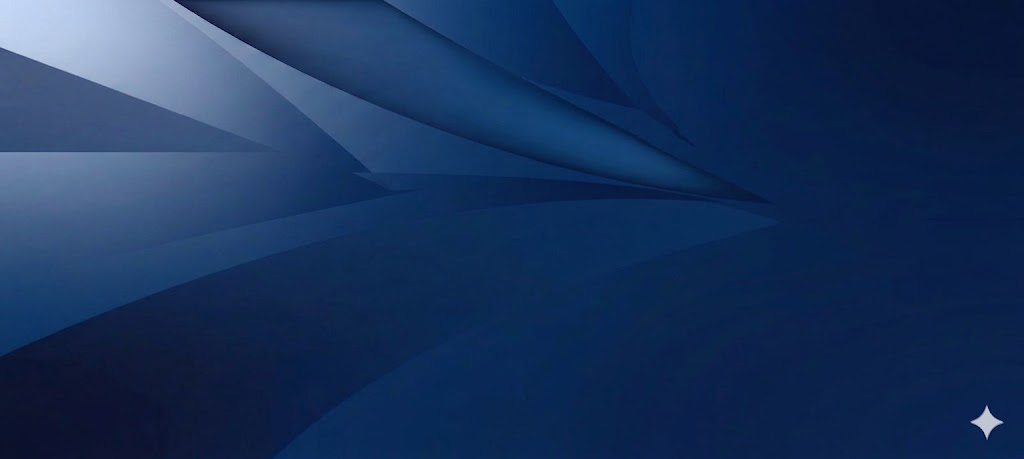
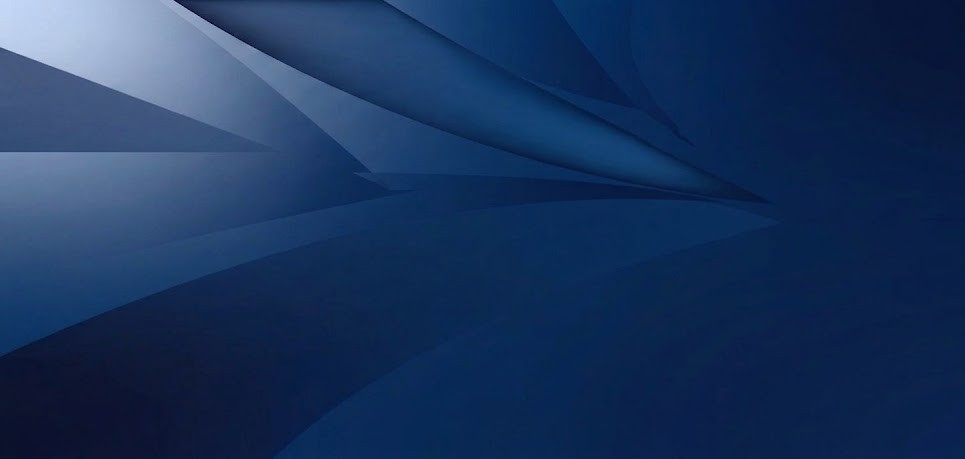
Cambios en nombre de selects , margin en titulo y recorte de imagen

diff --git a/src/components/NewAppointment.tsx b/src/components/NewAppointment.tsx
@@ -230,14 +230,14 @@ const NewAppointment: React.FC = () => {
                             
                             {/* ── Panel izquierdo: Formulario ── */}
                             <Box flex={1} sx={{ p: 4, borderRight: '1px solid', borderColor: 'divider' }}>
-                                <Typography variant="h5" fontWeight={700} color={C.dark} gutterBottom>
+                                <Typography variant="h5" fontWeight={700} mb={3} color={C.dark} gutterBottom>
                                     Nueva Cita
                                 </Typography>
                                 
                                 <Grid container spacing={3}>
                                     <Grid size={{ md: 6, xs: 12 }} >
                                         <FormControl fullWidth>
-                                            <InputLabel id="distrito-label">Distrito</InputLabel>
+                                            <InputLabel id="distrito-label">Ubicación</InputLabel>
                                             <Select
                                                 labelId="distrito-label"
                                                 value={distrito}
@@ -247,12 +247,12 @@ const NewAppointment: React.FC = () => {
                                                 displayEmpty
                                                 renderValue={(selected) => {
                                                     if (!selected) {
-                                                        return <span style={{ color: '#9e9e9e' }}>Selecciona un distrito</span>;
+                                                        return <span style={{ color: '#9e9e9e' }}>Selecciona una ubicación</span>;
                                                     }
                                                     return distritos.find(d => d.clave === selected)?.nombre || '';
                                                 }}
                                             >
-                                                <MenuItem value="" disabled>Selecciona un distrito</MenuItem>
+                                                <MenuItem value="" disabled>Selecciona una ubicación</MenuItem>
                                                 {distritos.map(d => <MenuItem key={d.clave} value={d.clave}>{d.nombre}</MenuItem>)}
                                             </Select>
                                         </FormControl>

diff --git a/src/components/HomePage.tsx b/src/components/HomePage.tsx
@@ -403,7 +403,7 @@ return (
     </Container>
 
     {/* FOOTER (Fuera del Container para que ocupe todo el ancho) */}
-    <Box component="footer"
+    {/* <Box component="footer"
       sx={{
         mt: 4,
         py: 3,
@@ -418,7 +418,7 @@ return (
       }}
     >
       <img src="/images/logo-horizontal-600x200-negro.png" alt="Logo PJECZ" style={{ width: 220, height: 'auto' }} />
-    </Box>
+    </Box> */}
   </>
 )};
 

diff --git a/CHANGELOG.md b/CHANGELOG.md
@@ -6,6 +6,7 @@ El formato se basa en [Keep a Changelog](https://keepachangelog.com/es-ES/1.1.0/
 ## [1.1.4] - 2026-05-12
 
 ### ✨ Añadido
+- Correcciones en interfaz de nueva cita y _homepage_.
 - Mejora del archivo `README.md` para mayor descripción del proyecto.
 - Añadido el archivo de ejemplo `.env.example`.
 - Archivo `CHANGELOG.md` para registro de cambios.